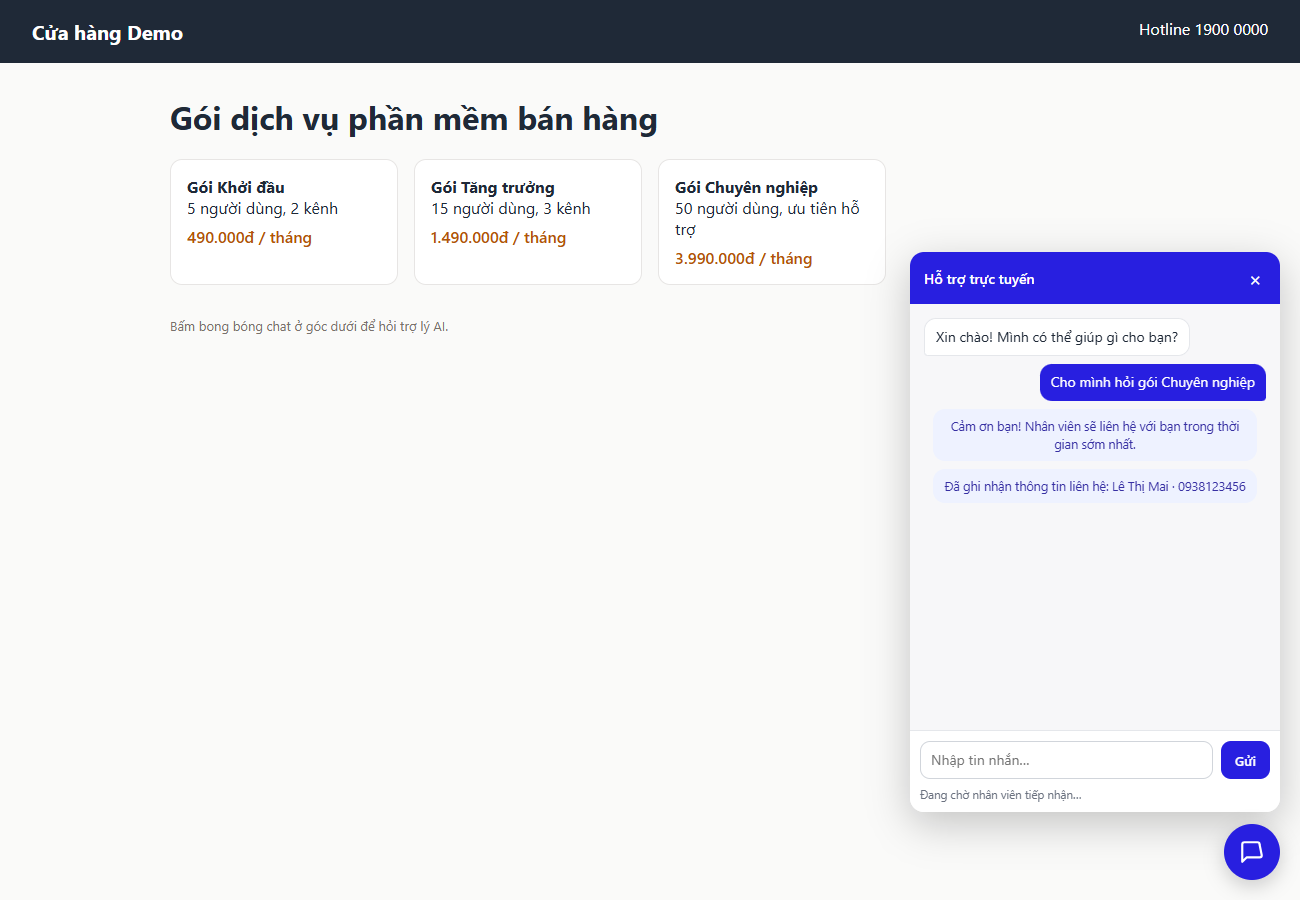
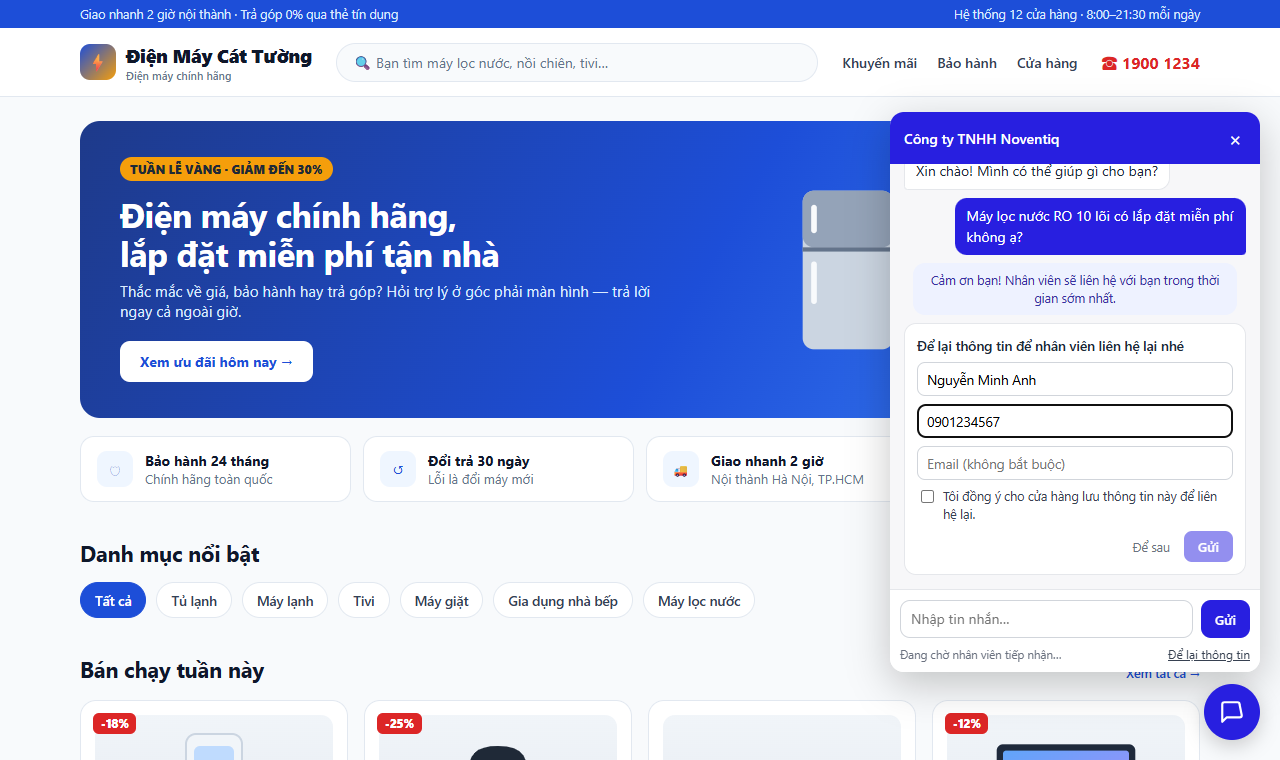
feat(demo): trang cua hang demo thanh website dien may Cat Tuong
Trang demo cu chi la vai the goi phan mem tren nen trang, chup len trang chu
nhin so sai va khong giong website doanh nghiep that se nhung widget.
Doi thanh mot cua hang dien may hu cau (banner, chinh sach, luoi san pham),
hinh san pham ve bang SVG ngay trong trang nen khong tai anh ngoai.
Ma nhung widget giu nguyen ba bien envsubst.

Chup lai anh Buoc 1 o trang chu: khung chat dang mo o "De lai thong tin"
sau khi chuyen nhan vien.

diff --git a/web-widget/demo/index.html b/web-widget/demo/index.html
@@ -3,33 +3,139 @@
   <head>
     <meta charset="UTF-8" />
     <meta name="viewport" content="width=device-width, initial-scale=1.0" />
-    <title>Cửa hàng Demo</title>
-    <!-- [R&D] Trang giả website doanh nghiệp để chạy thử và quay video UC009/UC010.
-         KHÁC trang dev (web-widget/index.html): ở đây widget được nhúng ĐÚNG như doanh nghiệp làm —
-         một thẻ <script> trỏ tới widget.js đã build, không tham số ?key, không mã nguồn TypeScript.
-         Ba giá trị ${...} do container điền lúc khởi động (demo/40-dien-ma-nhung.sh). -->
+    <title>Điện Máy Cát Tường — Điện máy chính hãng</title>
+    <!-- [R&D] Trang giả website doanh nghiệp để chạy thử, quay video UC009/UC010 và chụp ảnh cho trang chủ.
+         Doanh nghiệp HƯ CẤU (giá, chính sách đều là của cửa hàng giả này — không phải tính năng của nền tảng).
+         KHÁC trang dev (web-widget/index.html): widget được nhúng ĐÚNG như doanh nghiệp làm — một thẻ <script>
+         trỏ tới widget.js đã build. Ba giá trị ${...} do container điền lúc khởi động (demo/40-dien-ma-nhung.sh).
+         Không tải ảnh/phông ngoài: hình sản phẩm vẽ bằng SVG ngay trong trang. -->
     <style>
-      body { margin: 0; font-family: system-ui, sans-serif; color: #1f2937; background: #fafaf9; }
-      header { background: #1f2937; color: #fff; padding: 18px 32px; display: flex; justify-content: space-between; }
-      header b { font-size: 20px; }
-      main { max-width: 960px; margin: 32px auto; padding: 0 24px; }
-      .luoi { display: grid; grid-template-columns: repeat(auto-fill, minmax(220px, 1fr)); gap: 16px; }
-      .sp { background: #fff; border: 1px solid #e7e5e4; border-radius: 12px; padding: 16px; }
-      .sp .gia { color: #b45309; font-weight: 600; margin-top: 8px; }
-      .ghi-chu { margin-top: 32px; font-size: 13px; color: #78716c; }
+      :root { --chu: #0f172a; --phu: #64748b; --vien: #e2e8f0; --nen: #f8fafc; --do: #dc2626; --xanh: #1d4ed8; }
+      * { box-sizing: border-box; }
+      body { margin: 0; font-family: system-ui, -apple-system, "Segoe UI", Roboto, sans-serif; color: var(--chu); background: var(--nen); }
+      a { color: inherit; text-decoration: none; }
+      .khung { max-width: 1160px; margin: 0 auto; padding: 0 20px; }
+
+      .tren { background: var(--xanh); color: #dbeafe; font-size: 12.5px; }
+      .tren .khung { display: flex; justify-content: space-between; padding-top: 6px; padding-bottom: 6px; gap: 12px; }
+      header.dau { background: #fff; border-bottom: 1px solid var(--vien); position: sticky; top: 0; z-index: 5; }
+      header.dau .khung { display: flex; align-items: center; gap: 24px; height: 68px; }
+      .logo { display: flex; align-items: center; gap: 10px; font-weight: 800; font-size: 19px; letter-spacing: -.3px; }
+      .logo i { width: 36px; height: 36px; border-radius: 10px; background: linear-gradient(135deg, #1d4ed8, #f59e0b); display: grid; place-items: center; color: #fff; font-style: normal; font-size: 18px; }
+      .logo small { display: block; font-size: 11px; font-weight: 500; color: var(--phu); letter-spacing: 0; }
+      .tim { flex: 1; display: flex; align-items: center; gap: 8px; border: 1px solid var(--vien); border-radius: 999px; padding: 9px 16px; color: var(--phu); font-size: 14px; background: var(--nen); }
+      nav.menu { display: flex; gap: 20px; font-size: 14px; font-weight: 600; color: #334155; }
+      .goi { font-weight: 700; color: var(--do); white-space: nowrap; }
+
+      .banner { margin: 24px auto 0; border-radius: 20px; overflow: hidden; background: linear-gradient(120deg, #1e3a8a 0%, #1d4ed8 55%, #3b82f6 100%); color: #fff;
+        display: grid; grid-template-columns: 1.2fr 1fr; align-items: center; min-height: 260px; }
+      .banner .chu-bn { padding: 36px 40px; }
+      .banner .nhan { display: inline-block; background: #f59e0b; color: #1f2937; font-weight: 800; font-size: 12px; padding: 4px 10px; border-radius: 999px; }
+      .banner h1 { margin: 14px 0 8px; font-size: 34px; line-height: 1.15; letter-spacing: -.5px; }
+      .banner p { margin: 0 0 20px; color: #dbeafe; font-size: 15px; }
+      .banner .nut { display: inline-block; background: #fff; color: var(--xanh); font-weight: 700; padding: 11px 20px; border-radius: 10px; font-size: 14px; }
+      .banner .hinh-bn { display: flex; justify-content: center; align-items: flex-end; gap: 14px; padding: 24px; }
+
+      .dv { display: grid; grid-template-columns: repeat(4, 1fr); gap: 12px; margin-top: 18px; }
+      .dv div { background: #fff; border: 1px solid var(--vien); border-radius: 14px; padding: 14px 16px; display: flex; gap: 12px; align-items: center; font-size: 13px; color: var(--phu); }
+      .dv b { display: block; color: var(--chu); font-size: 14px; }
+      .dv span.bt { width: 36px; height: 36px; border-radius: 10px; background: #eff6ff; color: var(--xanh); display: grid; place-items: center; flex-shrink: 0; }
+
+      h2 { font-size: 22px; margin: 36px 0 14px; letter-spacing: -.3px; display: flex; justify-content: space-between; align-items: baseline; }
+      h2 a { font-size: 13px; color: var(--xanh); font-weight: 600; }
+      .dm { display: flex; gap: 10px; flex-wrap: wrap; }
+      .dm a { background: #fff; border: 1px solid var(--vien); border-radius: 999px; padding: 8px 14px; font-size: 13.5px; font-weight: 600; color: #334155; }
+      .dm a.chon { background: var(--xanh); color: #fff; border-color: var(--xanh); }
+
+      .luoi { display: grid; grid-template-columns: repeat(4, 1fr); gap: 16px; margin-top: 16px; }
+      .sp { background: #fff; border: 1px solid var(--vien); border-radius: 16px; padding: 14px; position: relative; display: flex; flex-direction: column; }
+      .sp .giam { position: absolute; top: 12px; left: 12px; background: var(--do); color: #fff; font-size: 11.5px; font-weight: 800; padding: 3px 8px; border-radius: 6px; }
+      .sp .anh { height: 150px; border-radius: 12px; background: linear-gradient(180deg, #f1f5f9, #e2e8f0); display: grid; place-items: center; margin-bottom: 12px; }
+      .sp .ten { font-size: 14px; font-weight: 600; line-height: 1.35; min-height: 38px; }
+      .sp .gia { margin-top: 8px; color: var(--do); font-weight: 800; font-size: 17px; }
+      .sp .cu { color: var(--phu); text-decoration: line-through; font-size: 12.5px; margin-left: 6px; font-weight: 500; }
+      .sp .tg { margin-top: 8px; font-size: 12px; color: #047857; background: #ecfdf5; border-radius: 6px; padding: 3px 8px; align-self: flex-start; font-weight: 600; }
+
+      footer { margin-top: 48px; background: #0f172a; color: #94a3b8; font-size: 13px; }
+      footer .khung { display: grid; grid-template-columns: 2fr 1fr 1fr; gap: 24px; padding-top: 32px; padding-bottom: 32px; }
+      footer b { color: #fff; display: block; margin-bottom: 8px; }
+      @media (max-width: 860px) {
+        nav.menu, .tim { display: none; }
+        .banner { grid-template-columns: 1fr; } .banner .hinh-bn { display: none; }
+        .dv, .luoi { grid-template-columns: repeat(2, 1fr); }
+        footer .khung { grid-template-columns: 1fr; }
+      }
     </style>
   </head>
   <body>
-    <header><b>Cửa hàng Demo</b><span>Hotline 1900 0000</span></header>
-    <main>
-      <h1>Gói dịch vụ phần mềm bán hàng</h1>
-      <div class="luoi">
-        <div class="sp"><b>Gói Khởi đầu</b><div>5 người dùng, 2 kênh</div><div class="gia">490.000đ / tháng</div></div>
-        <div class="sp"><b>Gói Tăng trưởng</b><div>15 người dùng, 3 kênh</div><div class="gia">1.490.000đ / tháng</div></div>
-        <div class="sp"><b>Gói Chuyên nghiệp</b><div>50 người dùng, ưu tiên hỗ trợ</div><div class="gia">3.990.000đ / tháng</div></div>
+    <!-- Hình sản phẩm vẽ phẳng bằng SVG — dùng lại qua <use> -->
+    <svg width="0" height="0" style="position:absolute" aria-hidden="true">
+      <defs>
+        <symbol id="tu-lanh" viewBox="0 0 80 120"><rect x="8" y="4" width="64" height="112" rx="8" fill="#cbd5e1"/><rect x="8" y="4" width="64" height="40" rx="8" fill="#94a3b8"/><rect x="14" y="14" width="4" height="20" rx="2" fill="#f8fafc"/><rect x="14" y="54" width="4" height="30" rx="2" fill="#f8fafc"/><rect x="8" y="44" width="64" height="3" fill="#64748b"/></symbol>
+        <symbol id="tivi" viewBox="0 0 140 100"><rect x="4" y="6" width="132" height="76" rx="6" fill="#1e293b"/><rect x="10" y="12" width="120" height="64" rx="3" fill="url(#mh)"/><rect x="58" y="82" width="24" height="8" fill="#334155"/><rect x="38" y="90" width="64" height="5" rx="2.5" fill="#475569"/><linearGradient id="mh" x1="0" y1="0" x2="1" y2="1"><stop offset="0" stop-color="#60a5fa"/><stop offset="1" stop-color="#a78bfa"/></linearGradient></symbol>
+        <symbol id="may-giat" viewBox="0 0 100 110"><rect x="8" y="4" width="84" height="102" rx="10" fill="#e2e8f0" stroke="#94a3b8" stroke-width="2"/><rect x="8" y="4" width="84" height="20" rx="10" fill="#cbd5e1"/><circle cx="72" cy="14" r="5" fill="#64748b"/><circle cx="50" cy="64" r="30" fill="#94a3b8"/><circle cx="50" cy="64" r="22" fill="#bfdbfe"/><path d="M34 70 Q50 58 66 70 L66 76 Q50 86 34 76Z" fill="#93c5fd"/></symbol>
+        <symbol id="may-lanh" viewBox="0 0 140 60"><rect x="4" y="6" width="132" height="44" rx="10" fill="#f8fafc" stroke="#cbd5e1" stroke-width="2"/><rect x="14" y="34" width="112" height="8" rx="4" fill="#cbd5e1"/><circle cx="118" cy="18" r="3" fill="#22c55e"/><path d="M30 54 q4 6 0 12 M50 54 q4 6 0 12 M70 54 q4 6 0 12" stroke="#93c5fd" stroke-width="3" fill="none"/></symbol>
+        <symbol id="noi-chien" viewBox="0 0 100 110"><path d="M18 30 Q18 6 50 6 Q82 6 82 30 L86 100 Q86 106 80 106 L20 106 Q14 106 14 100Z" fill="#1f2937"/><rect x="22" y="60" width="56" height="36" rx="8" fill="#374151"/><rect x="40" y="70" width="20" height="5" rx="2.5" fill="#9ca3af"/><circle cx="50" cy="38" r="9" fill="#f59e0b"/></symbol>
+        <symbol id="loc-nuoc" viewBox="0 0 80 120"><rect x="12" y="4" width="56" height="112" rx="10" fill="#f1f5f9" stroke="#cbd5e1" stroke-width="2"/><rect x="20" y="16" width="40" height="30" rx="6" fill="#bfdbfe"/><path d="M40 60 q-10 14 0 20 q10 -6 0 -20Z" fill="#3b82f6"/><rect x="34" y="92" width="12" height="6" rx="2" fill="#94a3b8"/></symbol>
+        <symbol id="am-dun" viewBox="0 0 100 100"><path d="M24 30 L76 30 L80 88 Q80 94 74 94 L26 94 Q20 94 20 88Z" fill="#e5e7eb" stroke="#9ca3af" stroke-width="2"/><path d="M76 40 Q94 44 90 64 Q88 74 78 74" stroke="#9ca3af" stroke-width="6" fill="none"/><rect x="30" y="20" width="40" height="12" rx="6" fill="#6b7280"/><rect x="26" y="84" width="48" height="10" rx="4" fill="#1f2937"/></symbol>
+        <symbol id="quat" viewBox="0 0 100 120"><circle cx="50" cy="42" r="36" fill="none" stroke="#94a3b8" stroke-width="4"/><path d="M50 42 q-20 -26 0 -32 q14 8 0 32 M50 42 q28 -6 30 14 q-14 8 -30 -14 M50 42 q-10 26 -28 16 q2 -16 28 -16" fill="#bfdbfe"/><circle cx="50" cy="42" r="6" fill="#1d4ed8"/><rect x="46" y="78" width="8" height="30" fill="#94a3b8"/><rect x="28" y="106" width="44" height="8" rx="4" fill="#64748b"/></symbol>
+      </defs>
+    </svg>
+
+    <div class="tren"><div class="khung"><span>Giao nhanh 2 giờ nội thành · Trả góp 0% qua thẻ tín dụng</span><span>Hệ thống 12 cửa hàng · 8:00–21:30 mỗi ngày</span></div></div>
+    <header class="dau">
+      <div class="khung">
+        <a class="logo" href="#"><i>⚡</i><span>Điện Máy Cát Tường<small>Điện máy chính hãng</small></span></a>
+        <div class="tim">🔍 Bạn tìm máy lọc nước, nồi chiên, tivi…</div>
+        <nav class="menu"><a href="#">Khuyến mãi</a><a href="#">Bảo hành</a><a href="#">Cửa hàng</a></nav>
+        <span class="goi">☎ 1900 1234</span>
       </div>
-      <p class="ghi-chu">Bấm bong bóng chat ở góc dưới để hỏi trợ lý AI.</p>
+    </header>
+
+    <main class="khung">
+      <section class="banner">
+        <div class="chu-bn">
+          <span class="nhan">TUẦN LỄ VÀNG · GIẢM ĐẾN 30%</span>
+          <h1>Điện máy chính hãng,<br />lắp đặt miễn phí tận nhà</h1>
+          <p>Thắc mắc về giá, bảo hành hay trả góp? Hỏi trợ lý ở góc phải màn hình — trả lời ngay cả ngoài giờ.</p>
+          <a class="nut" href="#san-pham">Xem ưu đãi hôm nay →</a>
+        </div>
+        <div class="hinh-bn">
+          <svg width="120" height="170"><use href="#tu-lanh" /></svg>
+          <svg width="180" height="130"><use href="#tivi" /></svg>
+        </div>
+      </section>
+
+      <section class="dv">
+        <div><span class="bt">🛡</span><span><b>Bảo hành 24 tháng</b>Chính hãng toàn quốc</span></div>
+        <div><span class="bt">↺</span><span><b>Đổi trả 30 ngày</b>Lỗi là đổi máy mới</span></div>
+        <div><span class="bt">🚚</span><span><b>Giao nhanh 2 giờ</b>Nội thành Hà Nội, TP.HCM</span></div>
+        <div><span class="bt">🔧</span><span><b>Lắp đặt miễn phí</b>Máy lạnh, máy lọc nước</span></div>
+      </section>
+
+      <h2 id="san-pham">Danh mục nổi bật</h2>
+      <div class="dm"><a class="chon" href="#">Tất cả</a><a href="#">Tủ lạnh</a><a href="#">Máy lạnh</a><a href="#">Tivi</a><a href="#">Máy giặt</a><a href="#">Gia dụng nhà bếp</a><a href="#">Máy lọc nước</a></div>
+
+      <h2>Bán chạy tuần này <a href="#">Xem tất cả →</a></h2>
+      <div class="luoi">
+        <div class="sp"><span class="giam">-18%</span><div class="anh"><svg width="80" height="120"><use href="#loc-nuoc" /></svg></div><div class="ten">Máy lọc nước RO nóng lạnh 10 lõi</div><div class="gia">7.490.000đ<span class="cu">9.190.000đ</span></div><span class="tg">Trả góp 0%</span></div>
+        <div class="sp"><span class="giam">-25%</span><div class="anh"><svg width="90" height="100"><use href="#noi-chien" /></svg></div><div class="ten">Nồi chiên không dầu 6.5 lít điện tử</div><div class="gia">1.590.000đ<span class="cu">2.120.000đ</span></div><span class="tg">Quà tặng kèm</span></div>
+        <div class="sp"><div class="anh"><svg width="150" height="70"><use href="#may-lanh" /></svg></div><div class="ten">Máy lạnh Inverter 1.5 HP tiết kiệm điện</div><div class="gia">10.990.000đ</div><span class="tg">Lắp đặt miễn phí</span></div>
+        <div class="sp"><span class="giam">-12%</span><div class="anh"><svg width="150" height="105"><use href="#tivi" /></svg></div><div class="ten">Smart Tivi 4K 55 inch</div><div class="gia">11.390.000đ<span class="cu">12.990.000đ</span></div><span class="tg">Trả góp 0%</span></div>
+        <div class="sp"><div class="anh"><svg width="80" height="120"><use href="#tu-lanh" /></svg></div><div class="ten">Tủ lạnh Inverter 2 cửa 326 lít</div><div class="gia">8.690.000đ</div><span class="tg">Giao nhanh 2 giờ</span></div>
+        <div class="sp"><span class="giam">-15%</span><div class="anh"><svg width="95" height="105"><use href="#may-giat" /></svg></div><div class="ten">Máy giặt cửa ngang 9 kg</div><div class="gia">7.990.000đ<span class="cu">9.400.000đ</span></div><span class="tg">Trả góp 0%</span></div>
+        <div class="sp"><div class="anh"><svg width="85" height="85"><use href="#am-dun" /></svg></div><div class="ten">Ấm siêu tốc inox 1.7 lít</div><div class="gia">390.000đ</div><span class="tg">Bán chạy</span></div>
+        <div class="sp"><span class="giam">-20%</span><div class="anh"><svg width="85" height="110"><use href="#quat" /></svg></div><div class="ten">Quạt đứng điều khiển từ xa</div><div class="gia">1.190.000đ<span class="cu">1.490.000đ</span></div><span class="tg">Giao nhanh 2 giờ</span></div>
+      </div>
     </main>
+
+    <footer>
+      <div class="khung">
+        <div><b>Điện Máy Cát Tường</b>Website giả lập để trình diễn khung chat AI — mọi sản phẩm, giá và chính sách trên trang đều là ví dụ.</div>
+        <div><b>Hỗ trợ</b>Tổng đài 1900 1234<br />Chính sách bảo hành<br />Đổi trả 30 ngày</div>
+        <div><b>Về chúng tôi</b>Hệ thống cửa hàng<br />Tuyển dụng<br />Liên hệ</div>
+      </div>
+    </footer>
 
     <!-- Mã nhúng lấy từ dashboard (Cài đặt → Web Widget → Chép mã) -->
     <script src="${WIDGET_SCRIPT_URL}" data-widget-key="${DEMO_WIDGET_KEY}" data-api-url="${WIDGET_PUBLIC_API_URL}" async></script>
